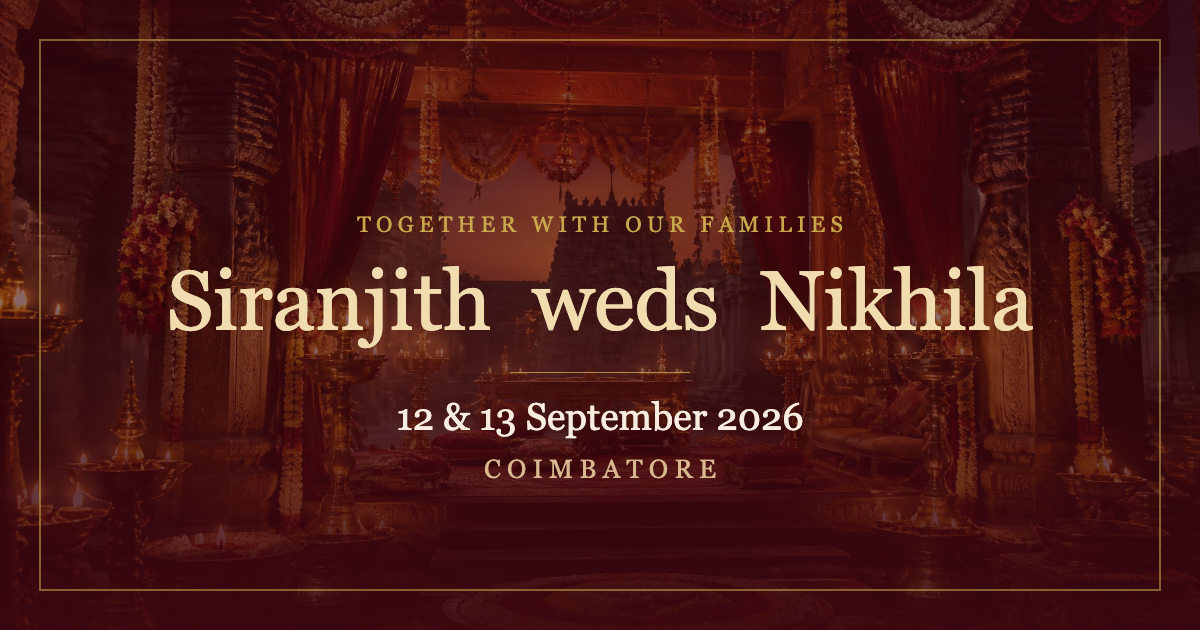
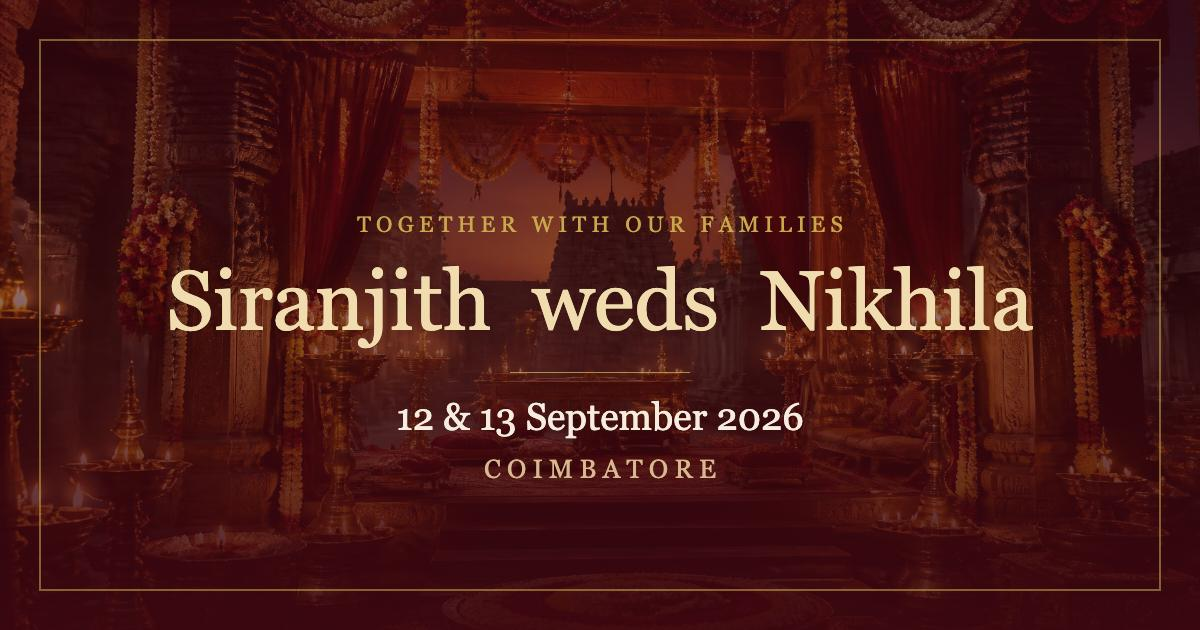
Add files via upload

diff --git a/index.html b/index.html
@@ -4,18 +4,24 @@
 <meta charset="utf-8">
 <meta name="viewport" content="width=device-width, initial-scale=1">
 <title>Siranjith weds Nikhila · 12 &amp; 13 September 2026</title>
-<meta name="description" content="With the blessings of Lord Murugan and our elders — Siranjith &amp; Nikhila, 12 &amp; 13 September 2026, Jasma Devi Mahal, Coimbatore.">
+<meta name="description" content="With the blessings of Lord Murugan and our elders, we invite you to the wedding of Siranjith Thangavel and Nikhila Vijayakarnan on 12 &amp; 13 September 2026, Jasma Devi Mahal, Coimbatore.">
 <meta name="theme-color" content="#3d0710">
 <meta property="og:type" content="website">
+<meta property="og:site_name" content="Siranjith weds Nikhila">
+<meta property="og:url" content="https://siranj-nikki-wedding.vercel.app/">
+<link rel="canonical" href="https://siranj-nikki-wedding.vercel.app/">
 <meta property="og:title" content="Siranjith weds Nikhila">
-<meta property="og:description" content="12 &amp; 13 September 2026 · Jasma Devi Mahal, Eachanari, Coimbatore.">
-<meta property="og:image" content="/og.jpg">
+<meta property="og:description" content="With the blessings of Lord Murugan and our elders, we invite you to the wedding of Siranjith and Nikhila on 12 &amp; 13 September 2026, Jasma Devi Mahal, Coimbatore.">
+<meta property="og:image" content="https://siranj-nikki-wedding.vercel.app/og.jpg">
+<meta property="og:image:secure_url" content="https://siranj-nikki-wedding.vercel.app/og.jpg">
+<meta property="og:image:type" content="image/jpeg">
+<meta property="og:image:alt" content="Siranjith weds Nikhila — 12 & 13 September 2026, Coimbatore">
 <meta property="og:image:width" content="1200">
 <meta property="og:image:height" content="630">
 <meta name="twitter:card" content="summary_large_image">
 <meta name="twitter:title" content="Siranjith weds Nikhila">
 <meta name="twitter:description" content="12 &amp; 13 September 2026 · Jasma Devi Mahal, Eachanari, Coimbatore.">
-<meta name="twitter:image" content="/og.jpg">
+<meta name="twitter:image" content="https://siranj-nikki-wedding.vercel.app/og.jpg">
 <script src="./support.js"></script>
 </head>
 <body>
